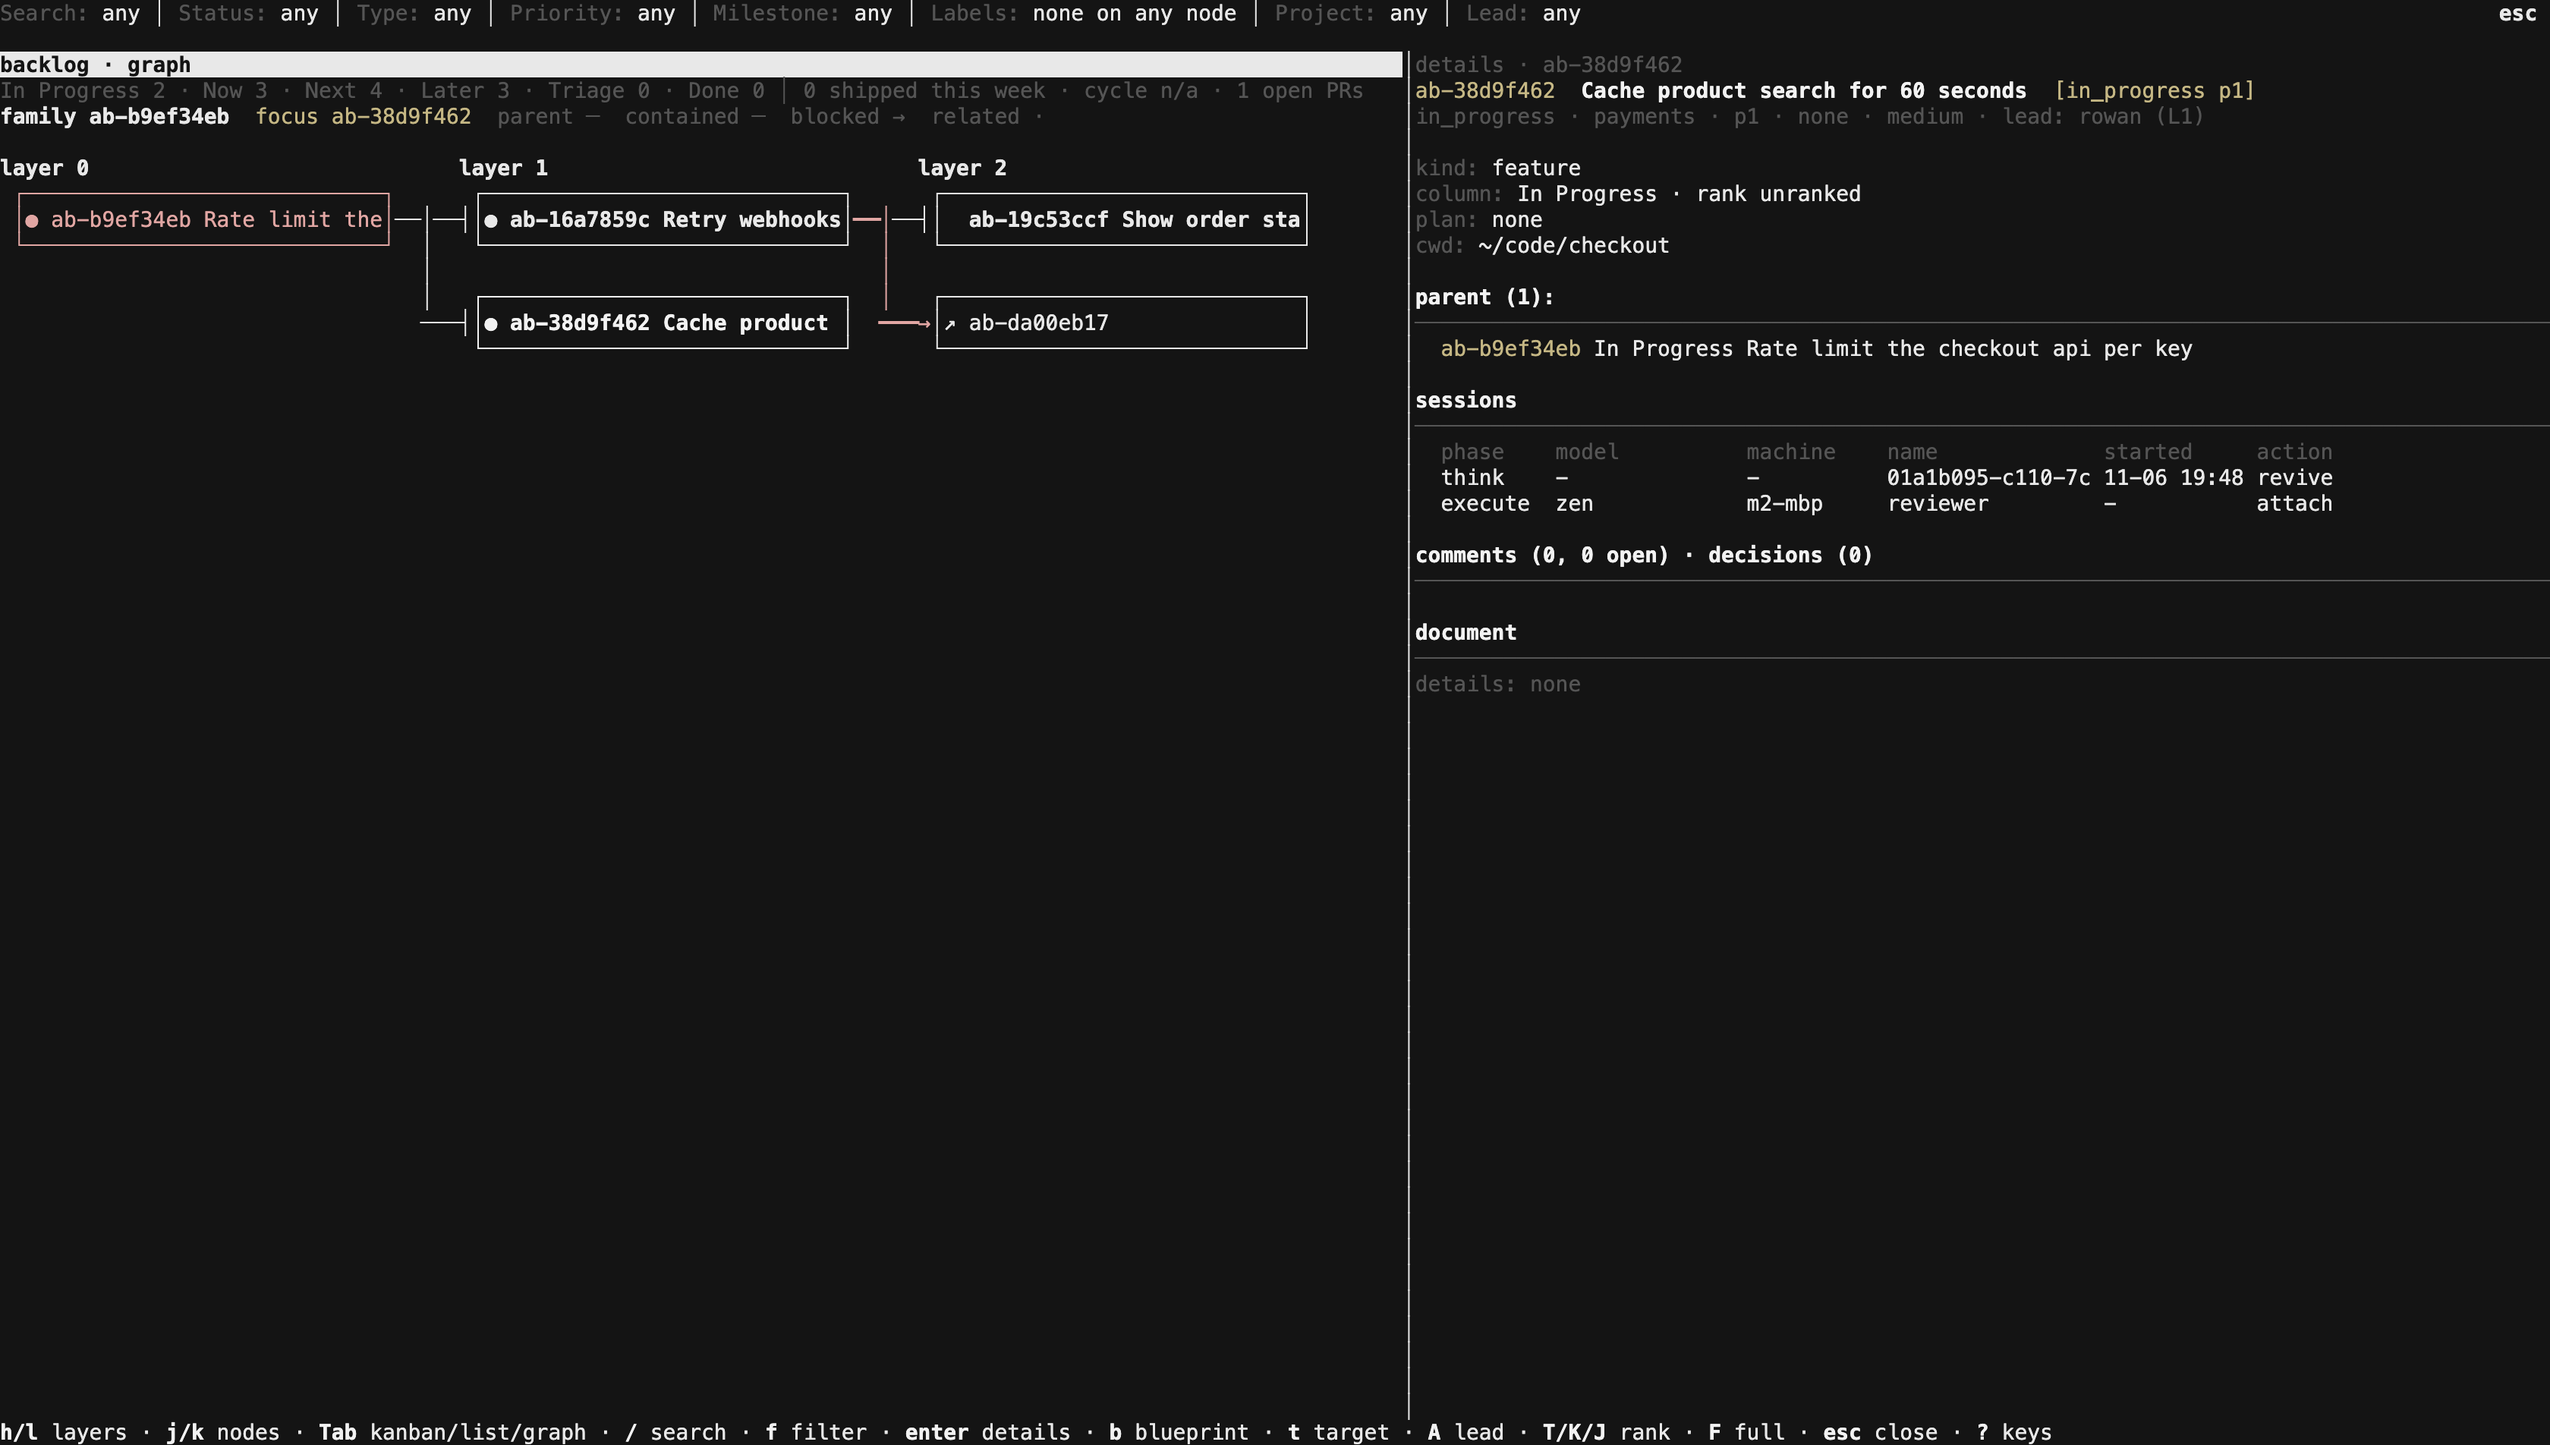
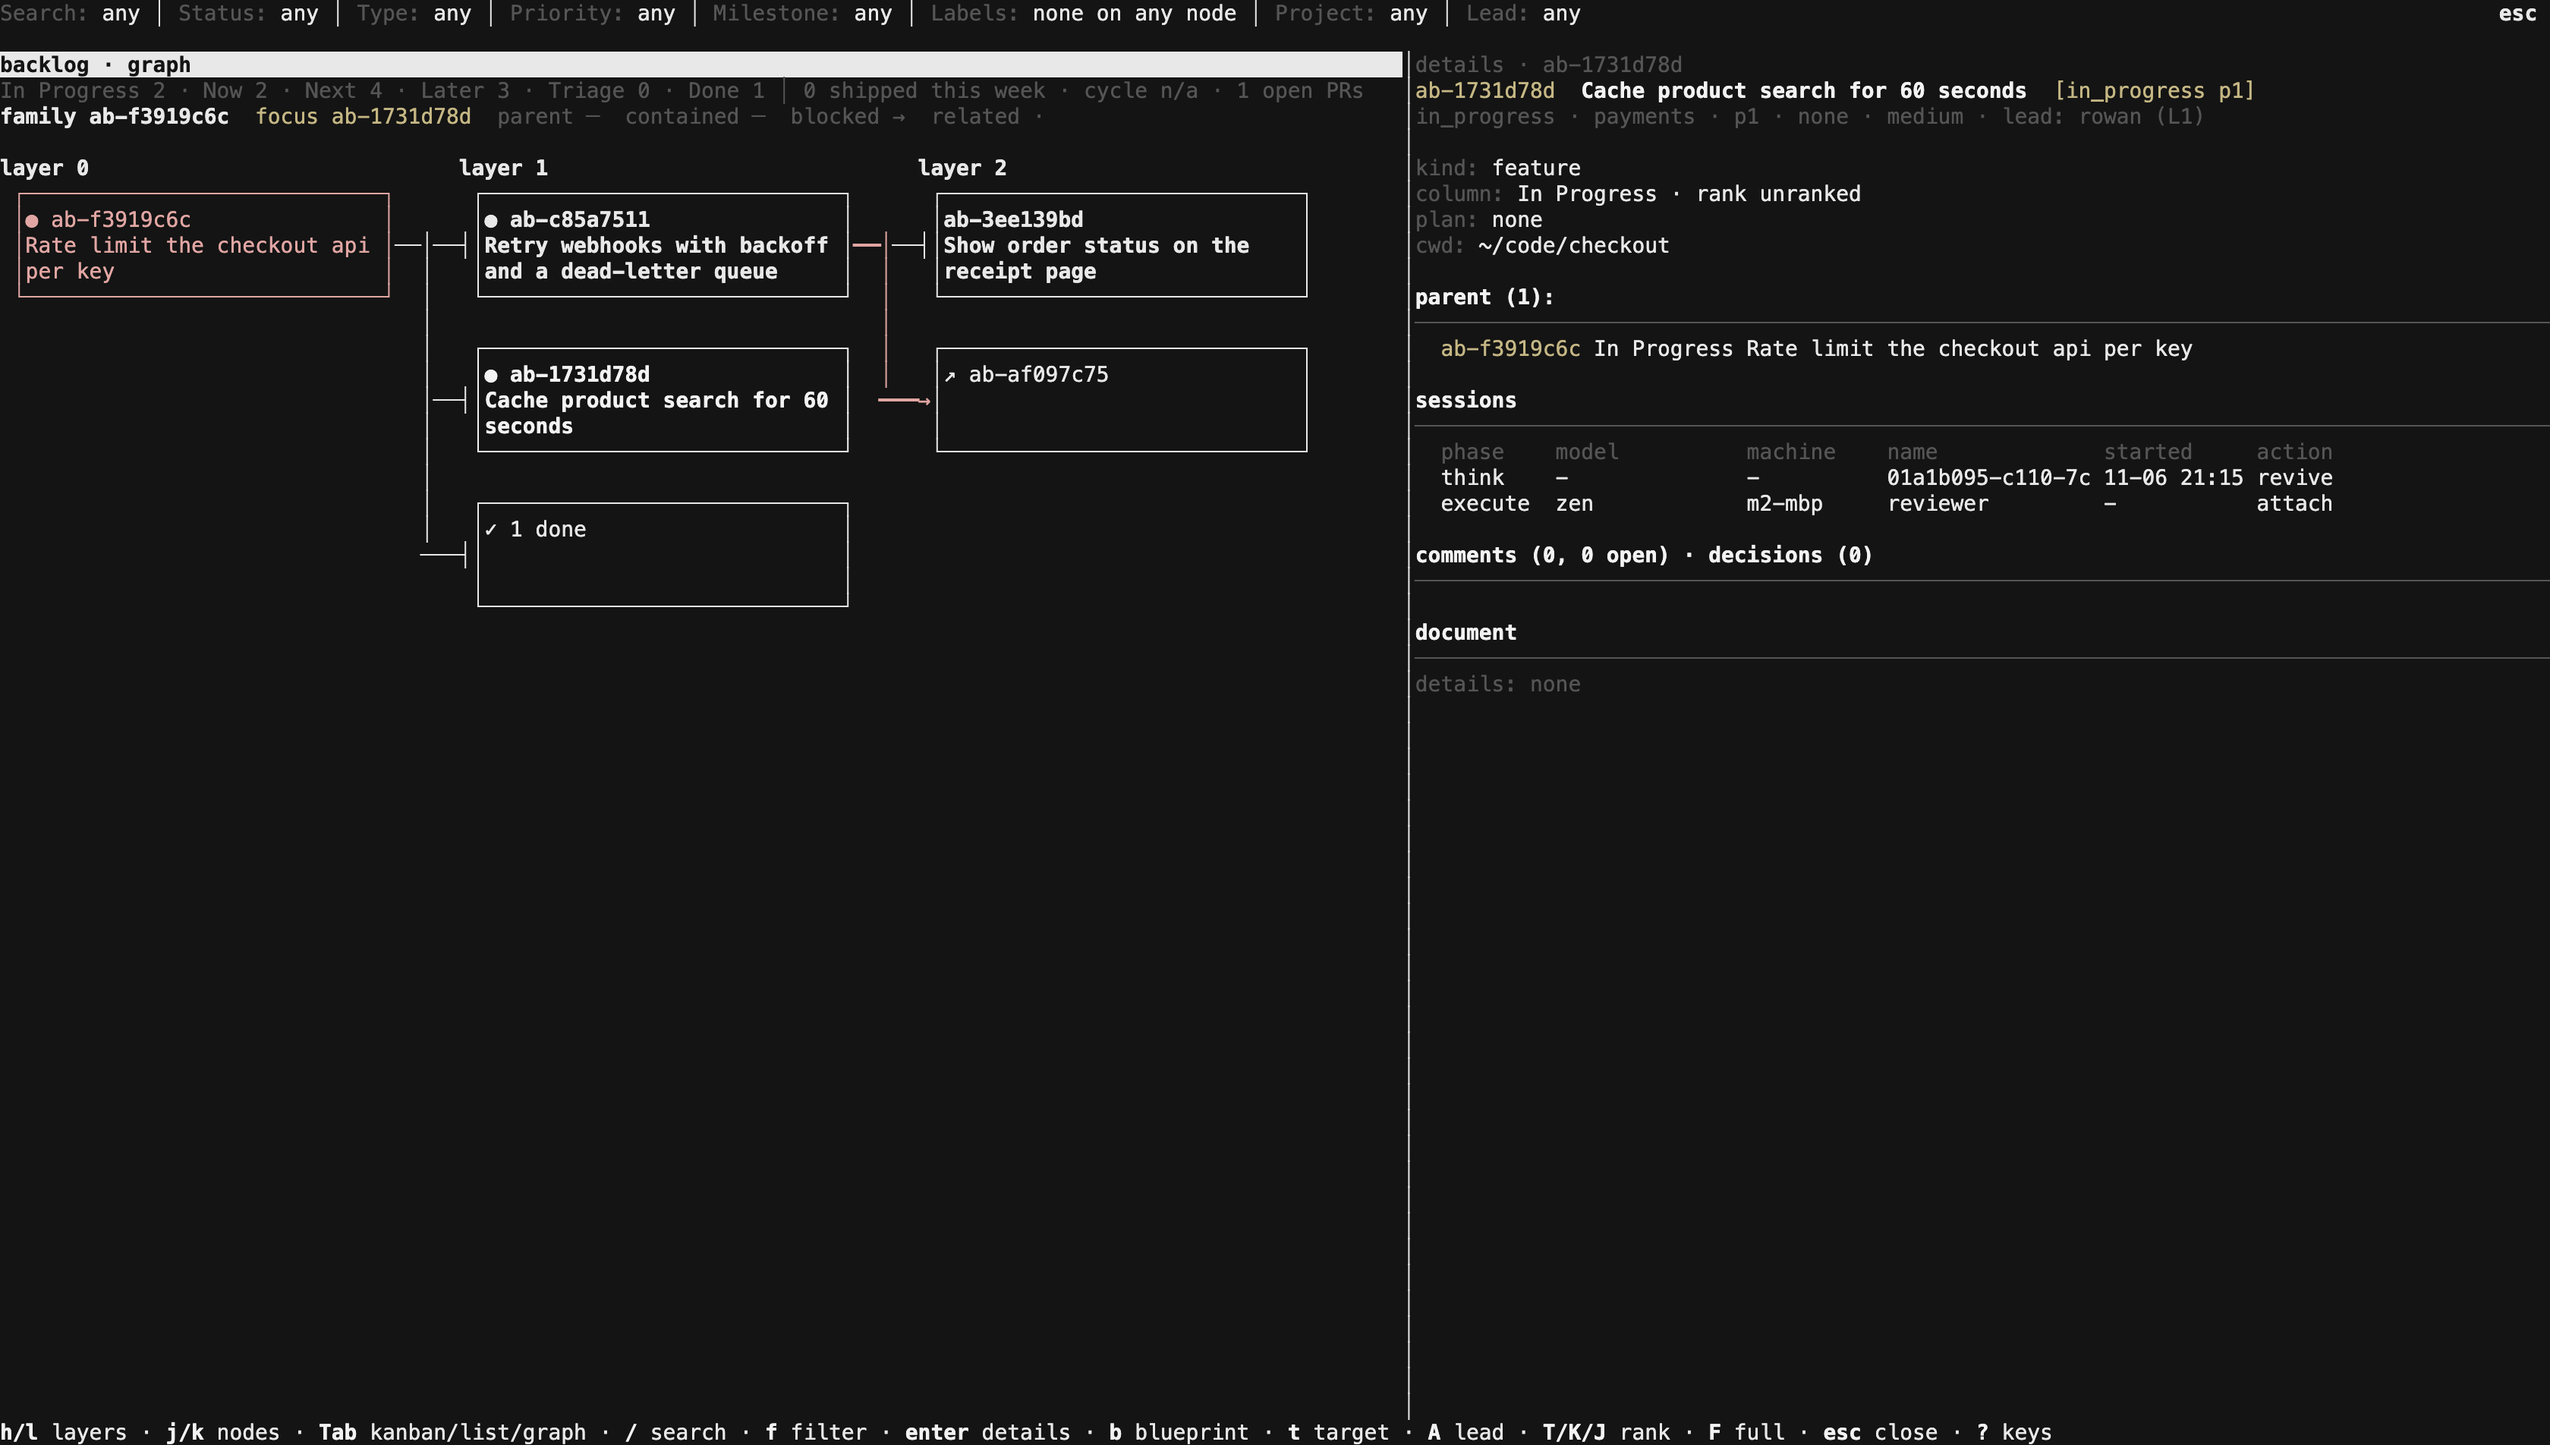
Wrap backlog graph node titles

diff --git a/crates/fno/src/web_backlog.html b/crates/fno/src/web_backlog.html
@@ -1398,7 +1398,7 @@ function laneKeyOf(card, lanesBy, parents, byId) {
     const layers = [...new Set(graph.nodes.map((node) => node.layer))].sort((a, b) => a - b);
     const byLayer = new Map(layers.map((layer) => [layer,
       graph.nodes.filter((node) => node.layer === layer).sort((a, b) => a.slot - b.slot)]));
-    const colW = 280, nodeW = 232, nodeH = 72, stepY = 96, padX = 22, padY = 56;
+    const colW = 280, nodeW = 232, nodeH = 84, stepY = 108, padX = 22, padY = 56;
     const svgWidth = Math.max(gridEl.clientWidth, padX * 2 + layers.length * colW);
     const maxSlots = Math.max(1, ...layers.map((layer) => byLayer.get(layer).length));
     const svgHeight = padY + maxSlots * stepY + 24;
@@ -1458,6 +1458,25 @@ function laneKeyOf(card, lanesBy, parents, byId) {
       const text = String(value || "");
       return text.length > limit ? text.slice(0, limit - 1) + "…" : text;
     };
+    const wrapGraphTitle = (value, limit) => {
+      let rest = String(value || "").trim();
+      const lines = [];
+      while (rest && lines.length < 2) {
+        if (rest.length <= limit) {
+          lines.push(rest);
+          rest = "";
+          break;
+        }
+        let cut = rest.lastIndexOf(" ", limit);
+        if (cut <= 0) cut = limit;
+        lines.push(rest.slice(0, cut).trim());
+        rest = rest.slice(cut).trim();
+      }
+      if (rest && lines.length === 2) {
+        lines[1] = fitGraphText(lines[1] + " " + rest, limit);
+      }
+      return [lines[0] || "", lines[1] || ""];
+    };
     const leadClass = (name) => {
       let hash = 0;
       for (const ch of String(name || "")) hash = (hash * 31 + ch.charCodeAt(0)) >>> 0;
@@ -1496,16 +1515,21 @@ function laneKeyOf(card, lanesBy, parents, byId) {
           ? "+" + node.stub.more.count + " more"
           : fitGraphText(id || node.id, 27);
       group.appendChild(idText);
-      const title = document.createElementNS(svg.namespaceURI, "text");
-      title.setAttribute("x", "10");
-      title.setAttribute("y", "43");
-      title.setAttribute("class", "gtitle");
-      title.textContent = card ? fitGraphText(card.title, 32) : node.stub === "outside" ? "outside family" : "";
-      group.appendChild(title);
+      const titleLines = card ? wrapGraphTitle(card.title, 32) :
+        [node.stub === "outside" ? "outside family" : "", ""];
+      for (const [index, text] of titleLines.entries()) {
+        if (!text) continue;
+        const title = document.createElementNS(svg.namespaceURI, "text");
+        title.setAttribute("x", "10");
+        title.setAttribute("y", String(index === 0 ? 41 : 55));
+        title.setAttribute("class", "gtitle");
+        title.textContent = text;
+        group.appendChild(title);
+      }
       if (card && card.lead && card.lead.name) {
         const lead = document.createElementNS(svg.namespaceURI, "text");
         lead.setAttribute("x", "10");
-        lead.setAttribute("y", "61");
+        lead.setAttribute("y", String(titleLines[1] ? 73 : 61));
         lead.setAttribute("class", "glead");
         lead.textContent = fitGraphText(card.lead.name, 30);
         group.appendChild(lead);

diff --git a/crates/fno/src/client/backlog_graph_paint.rs b/crates/fno/src/client/backlog_graph_paint.rs
@@ -2,7 +2,7 @@ use crate::backlog_graph::{EdgeKind, Graph, GraphNode, Stub};
 use crate::text_style::{char_w, TLine, TSeg, TextStyle};
 use std::collections::{BTreeMap, HashMap};
 
-const NODE_STEP: usize = 4;
+const NODE_STEP: usize = 6;
 const MIN_COL_W: usize = 14;
 const MAX_NODE_W: usize = 30;
 
@@ -115,7 +115,7 @@ pub(crate) fn lines(
             let is_selected = selected == Some(node.id.as_str());
             positions.insert(node.id.as_str(), Pos { x, y, w: node_w });
             if is_selected {
-                selected_y = Some(y + 1);
+                selected_y = Some(y + 2);
             }
         }
     }
@@ -127,7 +127,8 @@ pub(crate) fn lines(
         for (slot, node) in layers[layer].iter().enumerate() {
             let y = band_y[band] + slot * NODE_STEP;
             let role = node_role(node, selected);
-            draw_box(&mut grid, x, y, node_w, &node_label(node), role);
+            let labels = node_lines(node, node_w);
+            draw_box(&mut grid, x, y, node_w, &labels, role);
         }
     }
     for (index, layer) in layer_ids.iter().enumerate() {
@@ -183,20 +184,84 @@ pub(crate) fn action_id(node: &GraphNode) -> Option<String> {
 }
 
 fn node_label(node: &GraphNode) -> String {
-    if let Some(card) = &node.card {
-        let live = if card.live { "●" } else { " " };
-        let lead = card
-            .lead
-            .as_ref()
-            .map(|lead| format!(" @{}", lead.name))
-            .unwrap_or_default();
-        return format!("{live} {} {}{lead}", card.id, card.title);
-    }
     match &node.stub {
         Some(Stub::Done { count }) => format!("✓ {count} done"),
         Some(Stub::More { count }) => format!("+{count} more"),
         Some(Stub::Outside) => format!("↗ {}", node.id.trim_start_matches("outside:")),
         None => node.id.clone(),
+    }
+}
+
+fn node_lines(node: &GraphNode, box_width: usize) -> [String; 3] {
+    let content_width = box_width.saturating_sub(2).max(1);
+    let Some(card) = &node.card else {
+        return [
+            truncate_cells(&node_label(node), content_width),
+            String::new(),
+            String::new(),
+        ];
+    };
+
+    let live = if card.live { "● " } else { "" };
+    let id = truncate_cells(&format!("{live}{}", card.id), content_width);
+    let (title, rest) = take_cells(&card.title, content_width);
+    let (second_title, rest) = take_cells(&rest, content_width);
+    let second_title = if rest.is_empty() {
+        second_title
+    } else {
+        truncate_cells(&format!("{second_title}…"), content_width)
+    };
+    let lead = card
+        .lead
+        .as_ref()
+        .map(|lead| truncate_cells(&format!("@{}", lead.name), content_width))
+        .unwrap_or_default();
+    let third = if second_title.is_empty() {
+        lead
+    } else {
+        second_title
+    };
+    [id, title, third]
+}
+
+fn take_cells(value: &str, max_cells: usize) -> (String, String) {
+    let value = value.trim_start();
+    let mut end = 0;
+    let mut cells = 0;
+    for (index, ch) in value.char_indices() {
+        let width = char_w(ch).max(1);
+        if cells + width > max_cells {
+            break;
+        }
+        cells += width;
+        end = index + ch.len_utf8();
+    }
+    if end == value.len() {
+        return (value.trim_end().to_string(), String::new());
+    }
+    if end == 0 {
+        end = value.chars().next().map(char::len_utf8).unwrap_or(0);
+    }
+    let split = value[..end]
+        .rfind(char::is_whitespace)
+        .filter(|split| *split > 0)
+        .unwrap_or(end);
+    (
+        value[..split].trim_end().to_string(),
+        value[split..].trim_start().to_string(),
+    )
+}
+
+fn truncate_cells(value: &str, max_cells: usize) -> String {
+    let (prefix, rest) = take_cells(value, max_cells);
+    if rest.is_empty() {
+        prefix
+    } else if max_cells <= char_w('…').max(1) {
+        prefix
+    } else {
+        let ellipsis = '…';
+        let prefix = take_cells(value, max_cells.saturating_sub(char_w(ellipsis).max(1))).0;
+        format!("{prefix}{ellipsis}")
     }
 }
 
@@ -218,28 +283,45 @@ fn node_role(node: &GraphNode, selected: Option<&str>) -> TextStyle {
     }
 }
 
-fn draw_box(grid: &mut Grid, x: usize, y: usize, width: usize, label: &str, role: TextStyle) {
+fn draw_box(
+    grid: &mut Grid,
+    x: usize,
+    y: usize,
+    width: usize,
+    labels: &[String; 3],
+    role: TextStyle,
+) {
     if width < 3 {
-        for (offset, ch) in label.chars().take(width).enumerate() {
-            grid.put(x + offset, y + 1, ch, role);
+        for (row, label) in labels.iter().enumerate() {
+            for (offset, ch) in label.chars().take(width).enumerate() {
+                grid.put(x + offset, y + row + 1, ch, role);
+            }
         }
         return;
     }
+    let bottom = y + 4;
     grid.put(x, y, '┌', role);
     grid.put(x + width - 1, y, '┐', role);
     grid.horizontal(x + 1, x + width - 2, y, '─', role);
-    grid.put(x, y + 1, '│', role);
-    grid.put(x + width - 1, y + 1, '│', role);
-    grid.put(x, y + 2, '└', role);
-    grid.put(x + width - 1, y + 2, '┘', role);
-    grid.horizontal(x + 1, x + width - 2, y + 2, '─', role);
-    let mut at = x + 1;
-    for ch in label.chars() {
+    for (row, label) in labels.iter().enumerate() {
+        let y = y + row + 1;
+        grid.put(x, y, '│', role);
+        grid.put(x + width - 1, y, '│', role);
+        draw_text(grid, x + 1, y, x + width - 1, label, role);
+    }
+    grid.put(x, bottom, '└', role);
+    grid.put(x + width - 1, bottom, '┘', role);
+    grid.horizontal(x + 1, x + width - 2, bottom, '─', role);
+}
+
+fn draw_text(grid: &mut Grid, x: usize, y: usize, end: usize, text: &str, role: TextStyle) {
+    let mut at = x;
+    for ch in text.chars() {
         let cells = char_w(ch).max(1);
-        if at + cells > x + width - 1 {
+        if at + cells > end {
             break;
         }
-        grid.put(at, y + 1, ch, role);
+        grid.put(at, y, ch, role);
         at += cells;
     }
 }
@@ -258,8 +340,8 @@ fn draw_edges(grid: &mut Grid, graph: &Graph, positions: &HashMap<&str, Pos>, wi
             EdgeKind::BlockedBy => TextStyle::ERROR,
             EdgeKind::Related => TextStyle::Badge,
         };
-        let sy = from.y + 1;
-        let dy = to.y + 1;
+        let sy = from.y + 2;
+        let dy = to.y + 2;
         let sx = from.x + from.w;
         let dx = to.x.saturating_sub(1);
         let route = if sx < dx { (sx + dx) / 2 } else { 0 }.min(width.saturating_sub(1));

diff --git a/crates/fno/src/client/tests/backlog_board_tests.rs b/crates/fno/src/client/tests/backlog_board_tests.rs
@@ -1027,7 +1027,7 @@ fn tab_cycles_kanban_list_and_graph_views() {
     inputs.rows[1]["parent"] = json!("x-1");
     inputs.rows.push(json!({
         "id": "x-4", "status": "ready", "priority": "p2",
-        "title": "graph child", "project": "fno", "parent": "x-1"
+        "title": "Rate limit the checkout api per key", "project": "fno", "parent": "x-1"
     }));
     inputs.order.push("x-4".into());
     inputs.rows.push(json!({
@@ -1063,6 +1063,10 @@ fn tab_cycles_kanban_list_and_graph_views() {
     assert!(
         painted.contains("x-1") && painted.contains("x-2"),
         "family nodes missing: {painted}"
+    );
+    assert!(
+        painted.contains("Rate limit the checkout api") && painted.contains("per key"),
+        "the graph keeps a long title readable across its node lines: {painted}"
     );
     assert!(painted.contains("─"), "graph connectors missing: {painted}");
     assert_eq!(

diff --git a/crates/fno/src/web.rs b/crates/fno/src/web.rs
@@ -2720,6 +2720,11 @@ console.log("framePacer: 12 cases ok");
             "the graph draws model edges and nodes into the existing detail action"
         );
         assert!(
+            BACKLOG_PAGE.contains("const wrapGraphTitle")
+                && BACKLOG_PAGE.contains("wrapGraphTitle(card.title, 32)"),
+            "the SVG keeps a long card title visible on a second line"
+        );
+        assert!(
             BACKLOG_PAGE.contains("svg.setAttribute(\"role\", \"group\")")
                 && BACKLOG_PAGE.contains("group.setAttribute(\"role\", \"button\")"),
             "graph nodes stay accessible as controls inside a labeled group"

diff --git a/docs/backlog-usage.md b/docs/backlog-usage.md
@@ -416,6 +416,8 @@ The graph shows the focused node's family. Parent and contained edges form its l
 
 ![The mux backlog graph: three layers of parent-linked nodes, a selected node, and an outside blocker stub](images/backlog-mux-graph.png)
 
+This screenshot uses seeded demo data. Its counts do not describe a live project.
+
 The details view shows the node's plan, parent, pull requests, sessions and comment thread. Each session row carries the command that adopts it.
 
 ![The mux node details view: a node's fields, plan path, parent epic, pull request, two sessions with their adopt commands, and its comment thread](images/backlog-mux-details.png)
